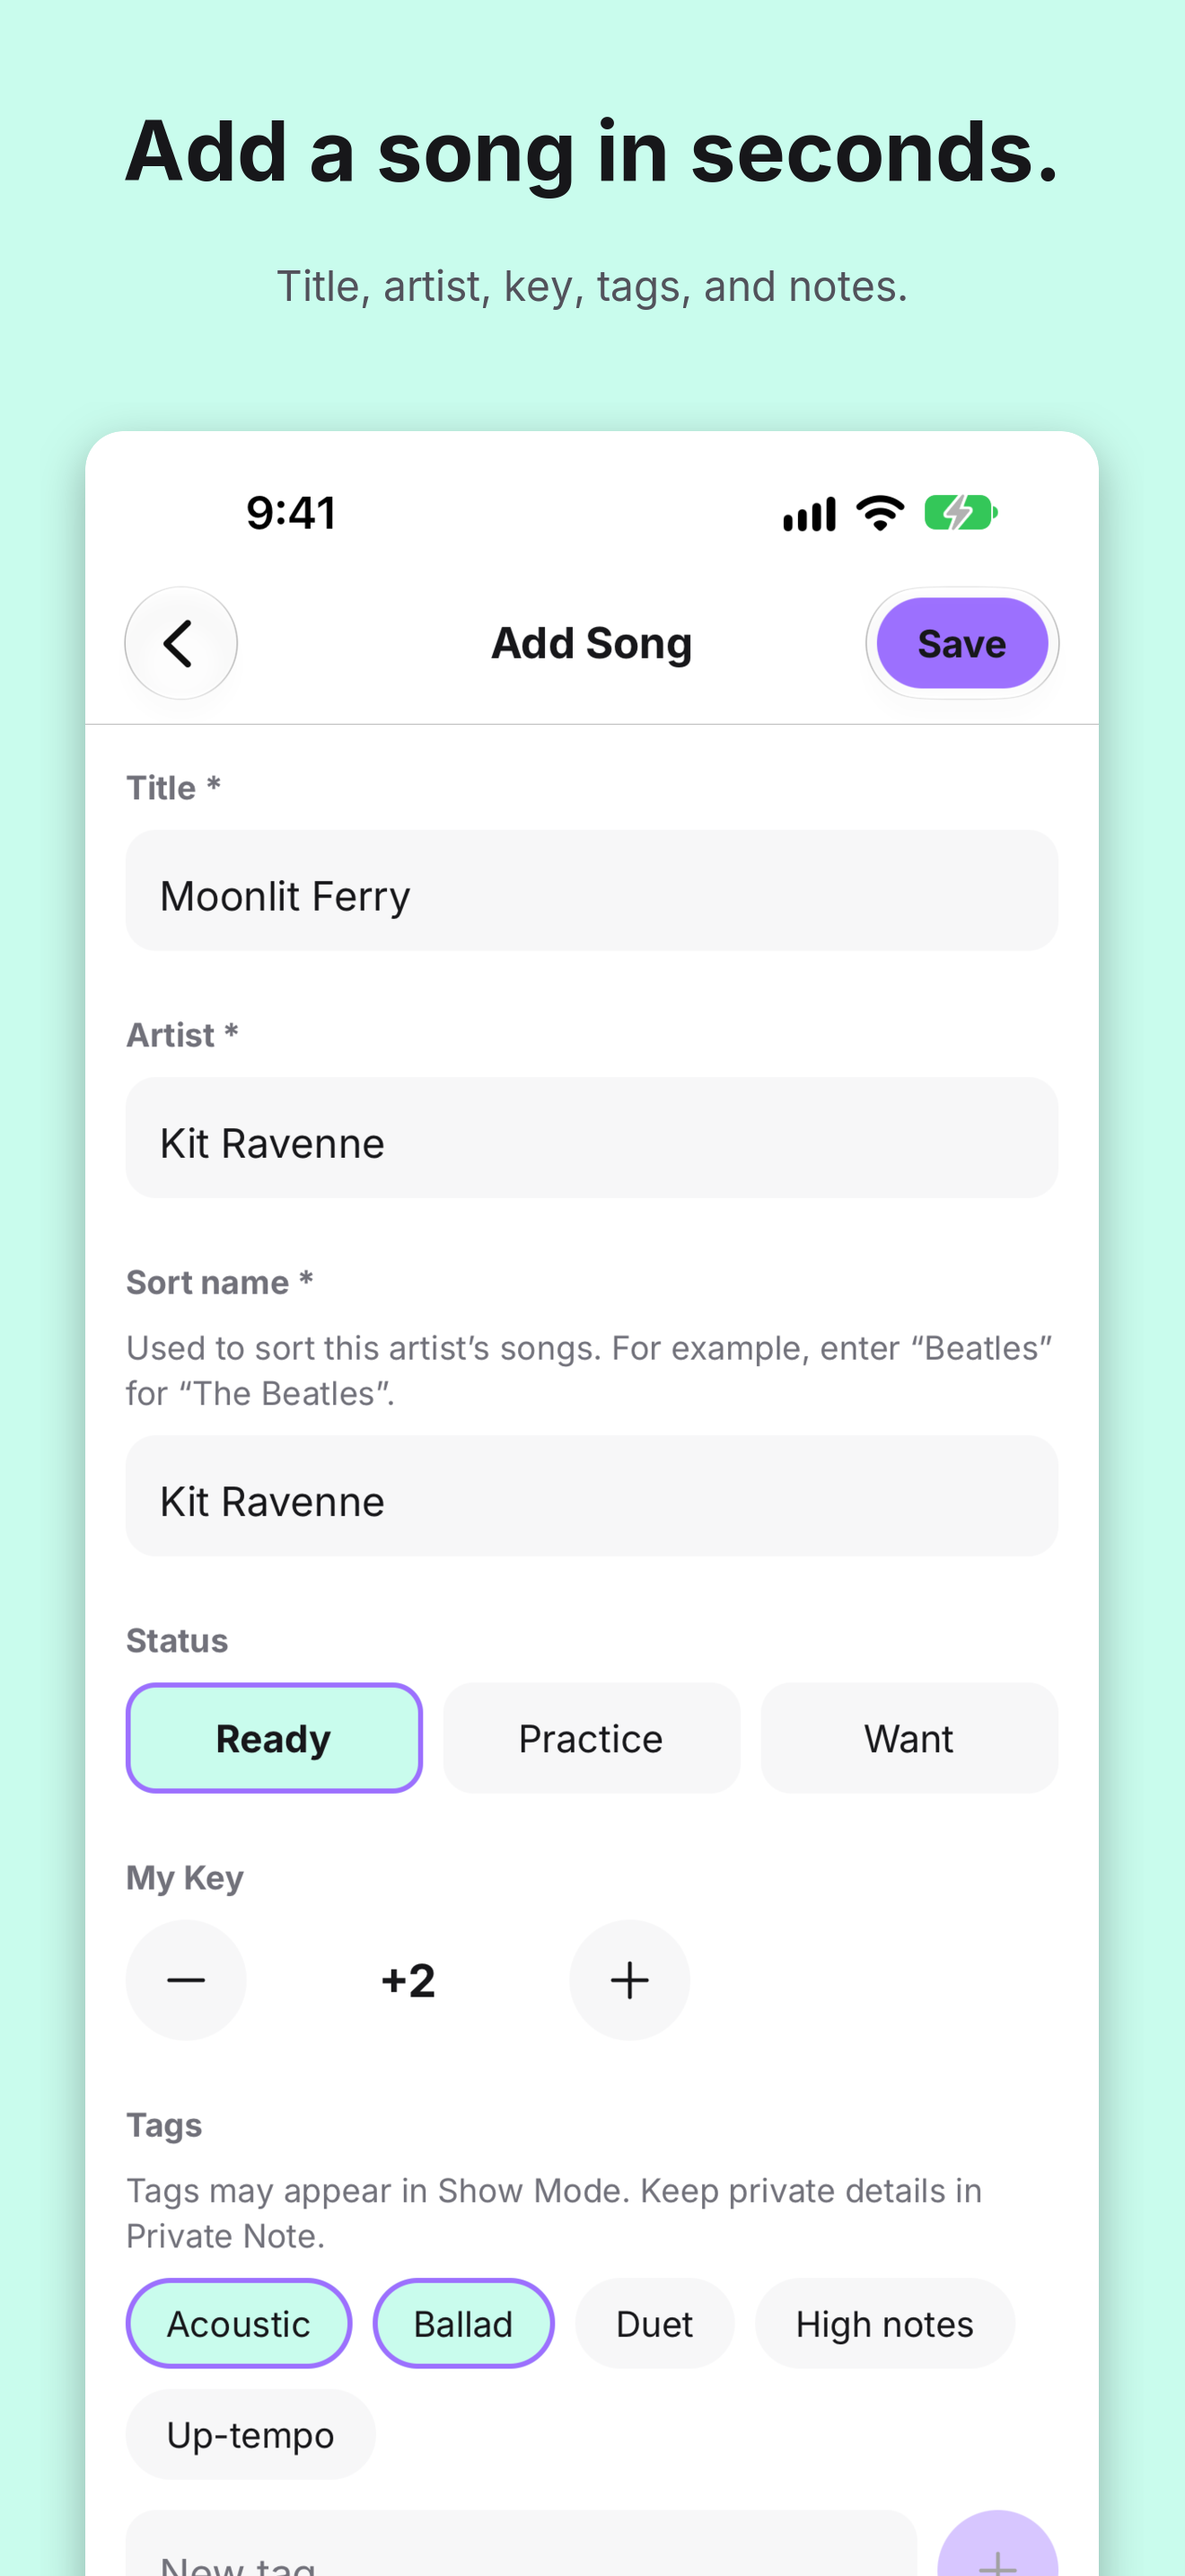
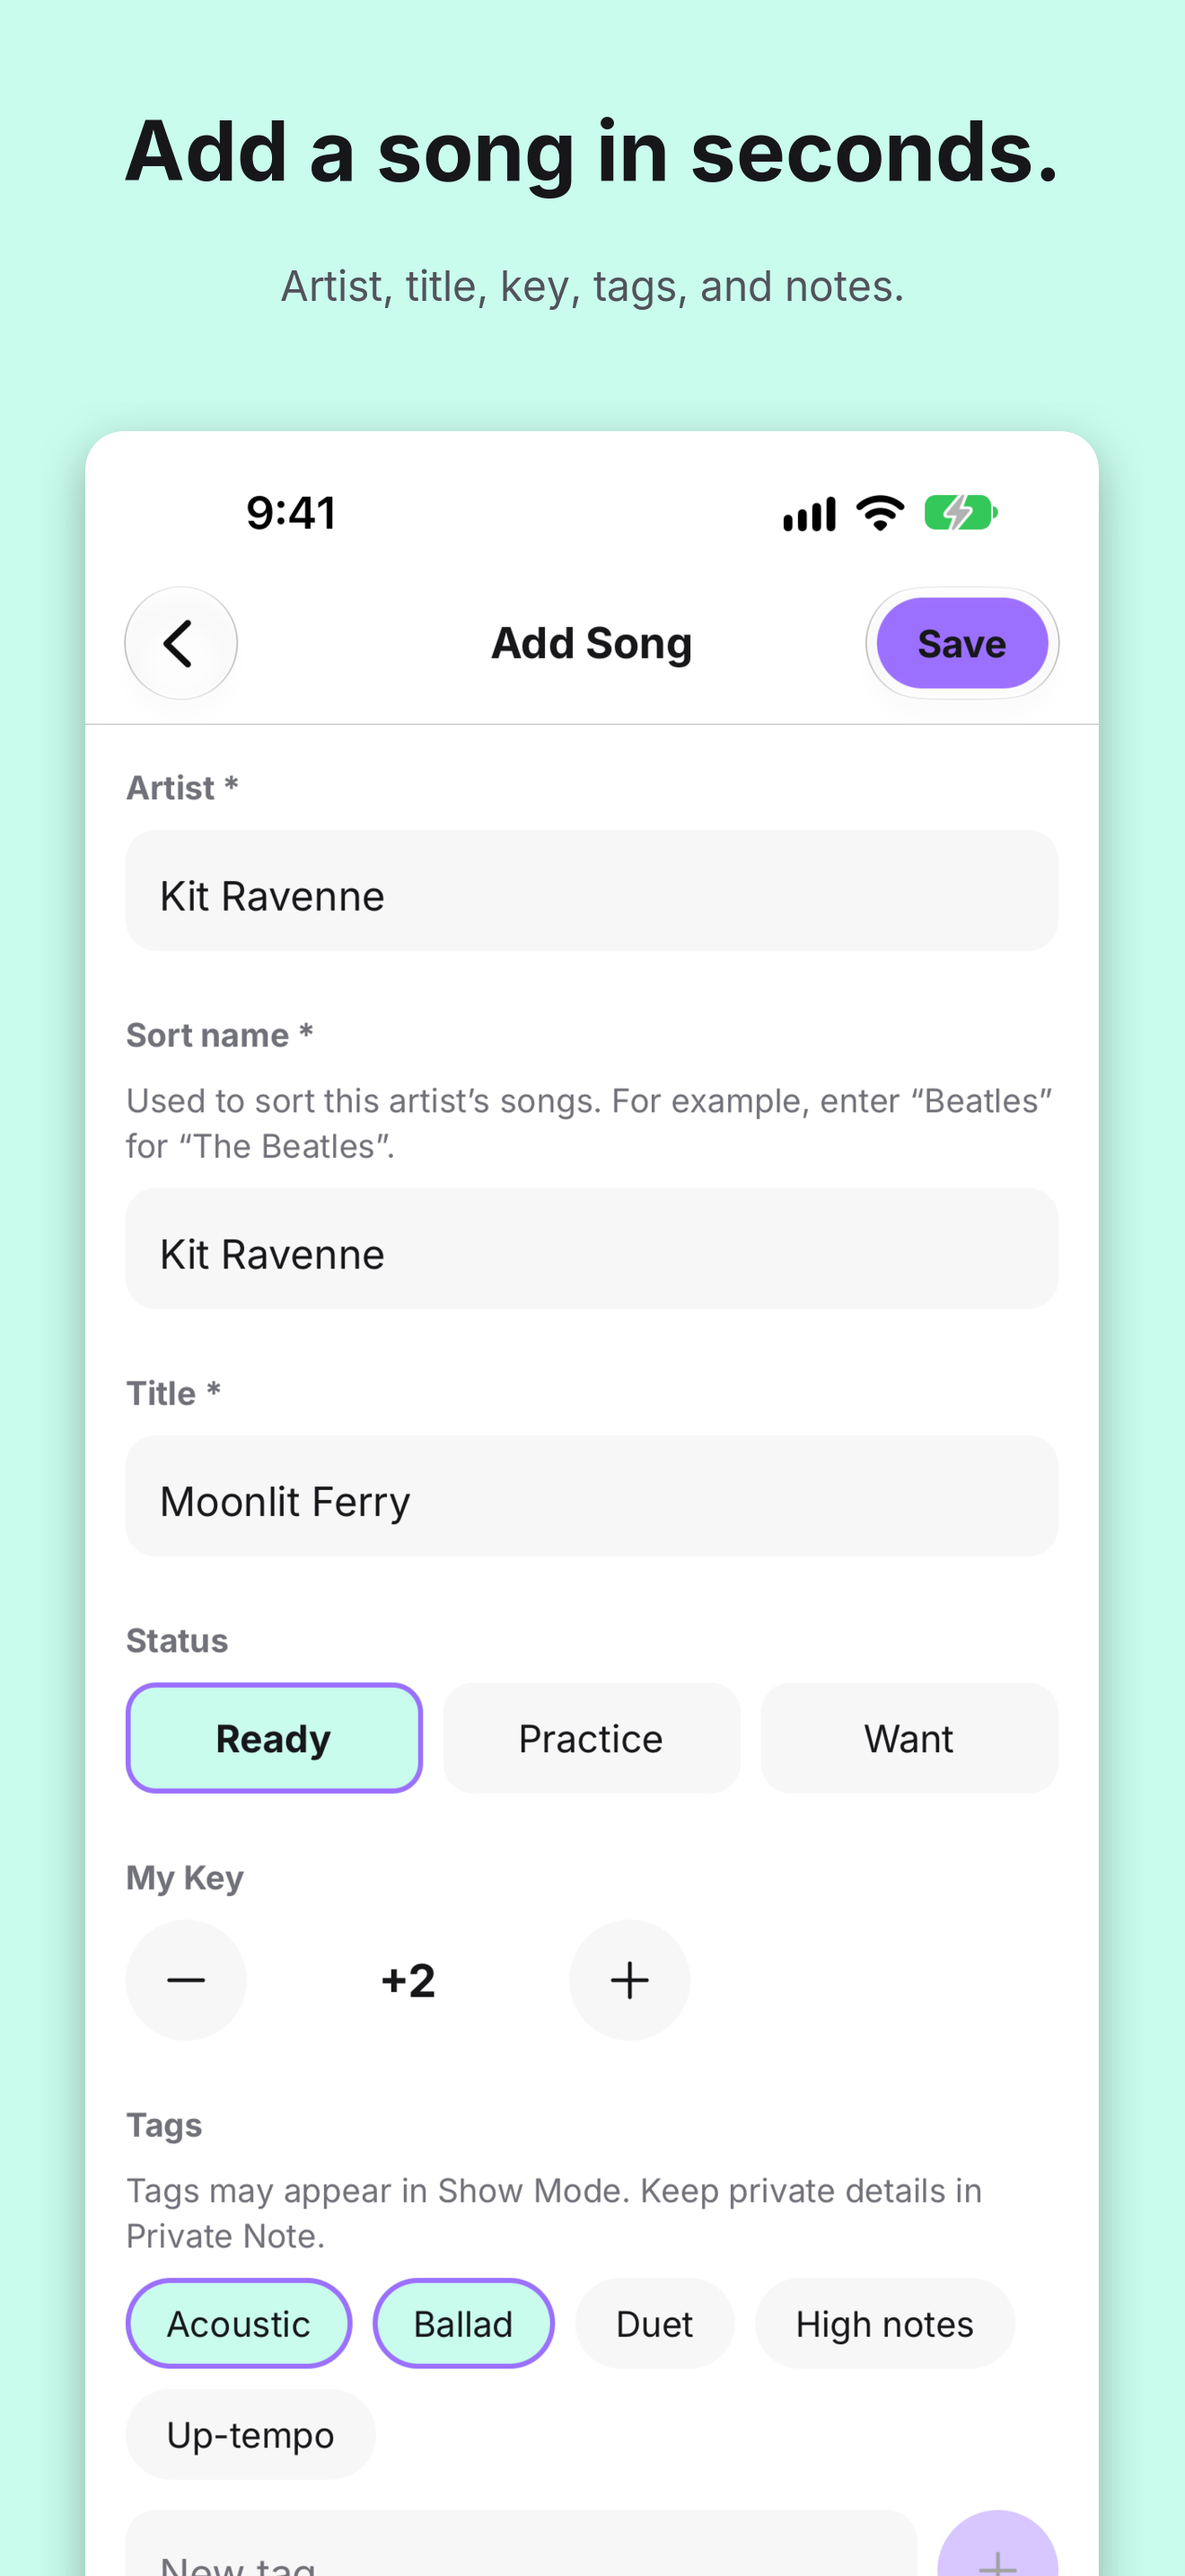
[feat] ストア用スクリーンショットを撮り直す（Songs・Add Song・Practiceで絞ったSongs・Settings。English・日本語、iOS・Android）

diff --git a/scripts/store-screenshots/seed.py b/scripts/store-screenshots/seed.py
@@ -12,9 +12,9 @@
   アーティストを使わない。足すときは、`check_names.py` で、同じ名前のアーティストが居ないことを
   確かめる（架空のつもりの名前が、実在した例が多い）。曲名は、短い一般的な語の組み合わせなので、
   実在の曲と偶然一致してもよい（保護されず、架空のアーティストと組み合わせて出るため）。
-- `updated_at` は実行時刻からの経過で決める。Practice の「Last updated」の日付は、撮った日で変わる
-  ので、English・日本語の6枚は、同じ日に撮る。
+- `updated_at` は実行時刻からの経過で決める（画面に日付は出ないが、「Recently updated」の並びに効く）。
 - Add Song の画面は、DBでは作れないので、撮影のとき、`ADD_SONG` の値を、手で入力する（保存はしない）。
+  入力の順は、アプリと同じ（アーティスト → 読み → 曲名）。
 """
 import sqlite3
 import sys
